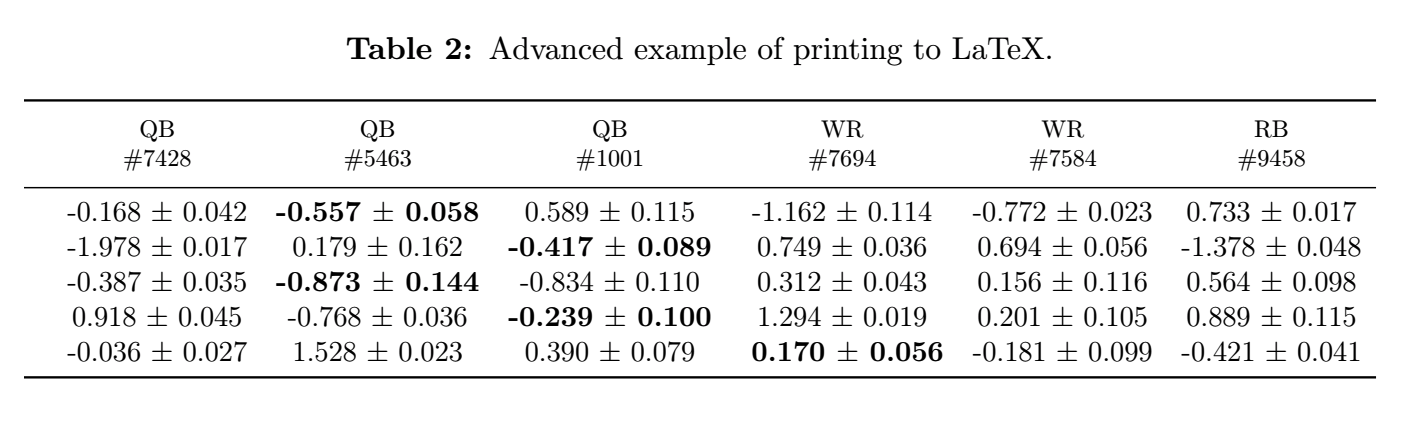
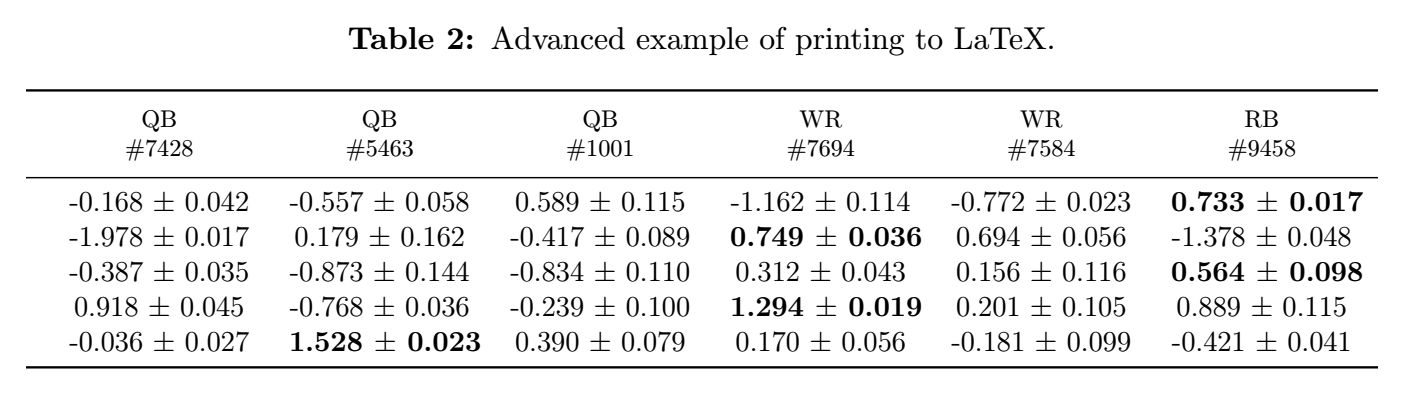
updated README

diff --git a/empiricalutilities/utilities.py b/empiricalutilities/utilities.py
@@ -164,7 +164,9 @@ def correlation(df, sort_col=None, plot=False):
         return corr.sort_values([col], ascending=False)[col][1:]
 
 
-def color_table(df, title=None, rev_index=None, color='RdYlGn'):
+
+
+def color_table(df, axis=1, title=None, rev_index=None, color='RdYlGn'):
     """
     Creates color coded comparison table from dataframe values (green high, red low)
 
@@ -172,6 +174,8 @@ def color_table(df, title=None, rev_index=None, color='RdYlGn'):
     ----------
     df: pd.DataFrame
         DataFrame of values
+    axis: int, default=1
+        axis to normalize data upon
     title: str
         title for table
     rev_index: list(str)
@@ -183,17 +187,26 @@ def color_table(df, title=None, rev_index=None, color='RdYlGn'):
     -------
         plot of color coded table
     """
+
     labels = df.values
-    norm_df = df.divide(np.max(df), axis=1)
+    cdf = df.copy()
+    if axis == 1:
+        cdf -= cdf.mean(axis=0)
+        cdf /= cdf.std(axis=0)
+    else:
+        cdf = cdf.transpose()
+        cdf -= cdf.mean(axis=0)
+        cdf /= cdf.std(axis=0)
+        cdf = cdf.transpose()
 
     if rev_index:
         for i in rev_index:
-            norm_df.iloc[:, i] = 1 - norm_df.iloc[:, i]
+            cdf.iloc[:, i] = 1 - cdf.iloc[:, i]
 
     plt.figure()
     if title:
         plt.title(title)
-    sns.heatmap(norm_df, cmap='RdYlGn', linewidths=0.5, annot=labels,
+    sns.heatmap(cdf, cmap='RdYlGn', linewidths=0.5, annot=labels,
                 fmt='0.1f', cbar=False)
     plt.xticks(rotation=0)
     plt.yticks(rotation=0)

diff --git a/README.rst b/README.rst
@@ -1,20 +1,219 @@
 Empirical Utitlities
 ==================
 
-|PyPI-Status| |PyPI-Versions| |Conda-Forge-Status|
+|PyPI-Status| |PyPI-Versions| |LICENSE|
 
-|Build-Status| |Coverage-Status| |Branch-Coverage-Status| |Codacy-Grade|
+``empiricalutilities`` is an empirical package for manipulating DataFrames,
+ especially those with datetime indexes, and other common data science functions
+ with an emphasis on improving visualization of results.
 
-|DOI-URI| |LICENCE|
+.. contents:: Table of contents
+   :backlinks: top
+   :local:
 
-This package includes empirical methods including for DataFrames with date
-time indexes and common data science functions.
+Installation
+------------
+
+Latest PyPI stable release
+~~~~~~~~~~~~~~~~~~~~~~~~~~
+
+|PyPI-Status|
+
+.. code:: sh
+
+    pip install empiricalutilities
+
+Latest development release on GitHub
+~~~~~~~~~~~~~~~~~~~~~~~~~~~~~~~~~~~~
+
+|GitHub-Status| |GitHub-Stars| |GitHub-Commits| |GitHub-Forks|
+
+Pull and install in the current directory:
+
+.. code:: sh
+
+    pip install -e git+https://github.com/jason-r-becker/empiricalutilities.git@master#egg=empiricalutilities
+
 
 .. code:: python
 
     import empiricalutilities as eu
-
+    eu.latex_print(np.arange(1, 10))
         ...
 
 
-----
+Usage
+-----
+
+``empiricalutilities`` is very versatile and can be used in a number of ways.
+Some examples of visualizing data in DataFrames and exporting to LaTeX are
+provided below.
+
+.. code:: python
+
+    import numpy as np
+    import pandas as pd
+    import matplotlib.pyplot as plt
+    import empiricalutilities as eu
+
+Data Visulization
+~~~~~~~~~~~~~~~~~
+
+After generating a random DataFrame, ``color_table()`` can be used
+to observe relative values compared across rows or columns. Take a dataset
+that may be football players' scores on different, unnamed drills:
+
+.. code:: python
+
+    np.random.seed(8675309)
+    cols = ['QB #1001', 'RB #9458', 'WR #7694', 'QB #5463', 'WR #7584', 'QB #7428']
+    table = pd.DataFrame(np.random.randn(5, 6), columns=cols)
+
+    color_table(table, axis=0)
+    plt.show()
+
+|Screenshot-color_table|
+
+Simple Export to LaTeX
+~~~~~~~~~~~~~~~~~~~~~~
+
+The table of values can be easily exported to LaTeX using ``latex_print()``
+
+.. code:: python
+
+    eu.latex_print(table)
+
+|Screenshot-latex_print_simple_code|
+
+Which can be copied and pasted into LaTeX:
+
+|Screenshot-latex_print_simple|
+
+Table with Standard Errors
+~~~~~~~~~~~~~~~~~~~~~~~~~~
+
+Now, lets assume the players have run the drills multiple times so we have
+average scores and standard errors. We can combine the average values with
+their respective errors with just one line using ``combine_errors_table()``.
+Further, we can print the results to the screen such that they are easy
+to interpret using ``prettyPrint()``:
+
+.. code:: python
+
+    errors = pd.DataFrame(np.random.randn(5, 6), columns=cols) / 10
+    error_table = combine_errors_table(table, errors, prec=3)
+    eu.prettyPrint(error_table)
+
+|Screenshot-prettyprint|
+
+Advanced Export to LaTeX
+~~~~~~~~~~~~~~~~~~~~~~~~
+To export this table, we must first create the table with an additional
+argument ``latex_format=True`` which lets ``combine_errors_table()`` know it
+needs to print with LaTeX formatting.
+
+.. code:: python
+
+    error_table = combine_errors_table(table, errors, prec=3, latex_format=True)
+
+We can also explore some of the advanced options available in ``latex_print()``.
+First, the table header can be split into two rows, which is accomplished with
+the ``multi_col_header=True`` argument. When True,  ``latex_print()`` expects
+a DataFrame with column headers containing a ``'*'`` to mark the start of each
+new column. We will use list comprehension to create a new column header list where
+all spaces are replaced with ``' * '`` and set this as the new table header.
+
+.. code:: python
+
+    multi_cols = [col.replace(' ', ' * ') for col in cols]
+    error_table.columns = multi_cols
+
+Next, we can sort the header. Let's assume we want to group by position, and
+are most interested in quarterbacks (QB), especially those with high numbers.
+``custom_sort()`` can be used to create our own sorting rules. By setting the
+sorting alphabet to ``'QWR9876543210'``, we empasize position first, QB->WR->RB,
+and number second in decreasing order from 9.
+
+.. code:: python
+
+    sort_alphabet = 'QWR9876543210'
+    sorted_cols = eu.custom_sort(multi_cols, sort_alphabet)
+
+Additionally, we can add some expressive ability to the table by bolding the score
+of the top performer for each drill. ``find_max_locs()`` identifies the
+location of each rowwise maximum in the DataFrame. We must be careful to sort
+the original table identially to the table with standard errors when the order
+of header columns is altered.
+
+.. code:: python
+
+    table.columns = multi_cols
+    max_locs = eu.find_max_locs(table[sorted_cols])
+
+Finally, adding a caption can be accomplished with the ``caption`` argument, and
+the uninformative index can be removed with ``hide_index=True``. For wide tables,
+adding ``adjust=True`` automatically sizes the table to the proper width of
+your LaTeX environment, adjusting the text size as needed.
+
+.. code:: python
+
+    eu.latex_print(error_table[sorted_cols],
+                   caption='Advanced example of printing to LaTeX.',
+                   adjust=True,
+                   multi_col_header=True,
+                   hide_index=True,
+                   bold_locs=max_locs,
+                   )
+
+|Screenshot-latex_print_advanced|
+
+Contributions
+-------------
+
+|GitHub-Commits| |GitHub-Issues| |GitHub-PRs|
+
+All source code is hosted on `GitHub <https://github.com/tjason-r-becker/empiricalutilities>`__.
+Contributions are welcome.
+
+
+LICENCE
+-------
+
+Open Source (OSI approved): |LICENCE|
+
+
+Authors
+-------
+
+The main developer(s):
+
+- Jason R Becker (`jrbecker <https://github.com/jason-r-becker>`__,
+
+
+.. |GitHub-Status| image:: https://img.shields.io/github/tag/jason-r-becker/empiricalutilities.svg?maxAge=86400
+   :target: https://github.com/jason-r-becker/empiricalutilities/releases
+.. |GitHub-Forks| image:: https://img.shields.io/github/forks/jason-r-becker/empiricalutilities.svg
+   :target: https://github.com/jason-r-becker/empiricalutilities/network
+.. |GitHub-Stars| image:: https://img.shields.io/github/stars/jason-r-becker/empiricalutilities.svg
+   :target: https://github.com/jason-r-becker/empiricalutilities/stargazers
+.. |GitHub-Commits| image:: https://img.shields.io/github/commit-activity/y/jason-r-becker/empiricalutilities.svg
+   :target: https://github.com/jason-r-becker/empiricalutilities/graphs/commit-activity
+.. |GitHub-Issues| image:: https://img.shields.io/github/issues-closed/jason-r-becker/empiricalutilities.svg
+   :target: https://github.com/jason-r-becker/empiricalutilities/issues
+.. |GitHub-PRs| image:: https://img.shields.io/github/issues-pr-closed/jason-r-becker/empiricalutilities.svg
+   :target: https://github.com/jason-r-becker/empiricalutilities/pulls
+.. |GitHub-Contributions| image:: https://img.shields.io/github/contributors/jason-r-becker/empiricalutilities.svg
+   :target: https://github.com/jason-r-becker/empiricalutilities/graphs/contributors
+.. |PyPI-Status| image:: https://img.shields.io/pypi/v/empiricalutilities.svg
+   :target: https://pypi.org/project/empiricalutilities
+.. |PyPI-Downloads| image:: https://img.shields.io/pypi/dm/v.svg
+   :target: https://pypi.org/project/empiricalutilities
+.. |PyPI-Versions| image:: https://img.shields.io/pypi/pyversions/empiricalutilities.svg
+   :target: https://pypi.org/project/empiricalutilities
+.. |LICENSE| image:: https://img.shields.io/pypi/l/empiricalutilities.svg
+   :target: https://raw.githubusercontent.com/jason-r-becker/empiricalutilities/master/License.txt
+.. |Screenshot-prettyprint| image:: https://raw.githubusercontent.com/jason-r-becker/empiricalutilities/master/images/pretty_print.png
+.. |Screenshot-color_table| image:: https://raw.githubusercontent.com/jason-r-becker/empiricalutilities/master/images/color_table.png
+.. |Screenshot-latex_print_simple_code| image:: https://raw.githubusercontent.com/jason-r-becker/empiricalutilities/master/images/latex_print_simple_output.png
+.. |Screenshot-latex_print_simple| image:: https://raw.githubusercontent.com/jason-r-becker/empiricalutilities/master/images/latex_print_simple.png
+.. |Screenshot-latex_print_advanced| image:: https://raw.githubusercontent.com/jason-r-becker/empiricalutilities/master/images/latex_print_advanced.png
